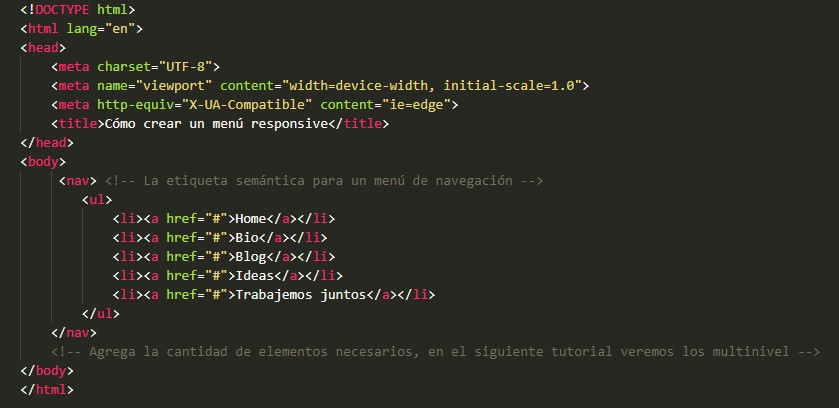
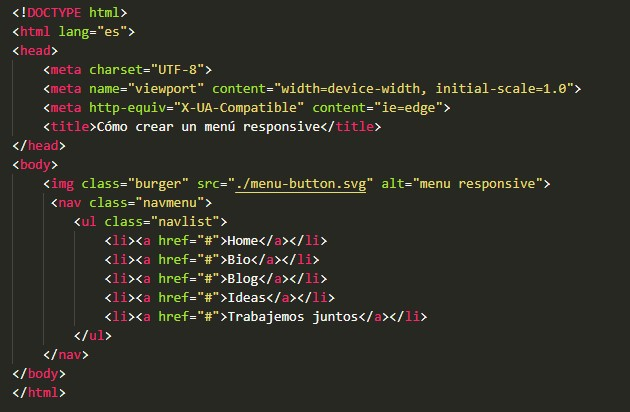
todos los archivos

Changed region(s): [[0.0, 0.0, 0.9349, 0.7941], [0.0, 0.7353, 0.9349, 0.9706]]

diff --git a/CSS.html b/CSS.html
@@ -40,36 +40,6 @@
             cursor: pointer; /*le decimos que cuando el cursor pase sobre el se muestre como vinculo*/
             z-index: 3; /*Lo subimos de nivel en el eje Z*/
         }
-        @media screen and (max-width: 768px){ /*invocamos la condicion para el cambio de aspecto */
-            .navlist{
-                margin: 0;
-                position: relative;
-                left: -100%; /*lo sacamos del canvas o lienzo*/
-                background-color: rgba(0, 0, 0, 0.4); /*un color de fondo*/
-            }
-            .active{
-                left: 0; /*esta clase "devolverá" el menú a la posición*/
-            }
-            .navlist{
-                text-align: center; /*agregamos estilos del menú en móviles*/
-                height: 100vh;
-                display: grid;
-                justify-content: center;
-                align-content: center;
-            }
-            .navlist li a{
-                width: 100%;
-                display: block;
-            }
-            .navlist li a:hover{
-                background-color: rgba(243, 52, 84, 0.2);
-                color: #FFF;
-                padding: 8px;
-            }
-            .burger{
-                display: block; /*aqui mostramos el botón, en móviles*/
-            }
-        }
     </style>
 </head>
 <body>
@@ -83,18 +53,6 @@
             <li><a href="#">Trabajemos juntos</a></li>
         </ul>
     </nav>
-    <script>
-        const botonmenu = document.querySelector('.burger')
-        const menu = document.querySelector('.navlist')
-        botonmenu.addEventListener('click', toggleMenu)
-        function toggleMenu(){
-            if (menu.classList.contains('active')) {
-                menu.classList.remove('active')
-            } else {
-                menu.classList.add('active')
-            }
-        }
-    </script>
 </body>
 </html>
 

diff --git a/html.html b/html.html
@@ -1,0 +1,23 @@
+<!DOCTYPE html>
+<html lang="es">
+<head>
+    <meta charset="UTF-8">
+    <meta name="viewport" content="width=device-width, initial-scale=1.0">
+    <meta http-equiv="X-UA-Compatible" content="ie=edge">
+    <title>Cómo crear un menú responsive</title>
+</head>
+<body>
+    <img class="burger" src="./menu-button.svg" alt="menu responsive"> <!-- botón del menú adaptable -->
+     <nav class="navmenu"><!-- Contenedor del menú --> 
+        <ul class="navlist"> <!-- Listado de opciones del menú --> 
+            <li><a href="#">Home</a></li>
+            <li><a href="#">Bio</a></li>
+            <li><a href="#">Blog</a></li>
+            <li><a href="#">Ideas</a></li>
+            <li><a href="#">Trabajemos juntos</a></li>
+        </ul>
+    </nav>
+</body>
+</html>
+
+

diff --git a/CSSresponsive.html b/CSSresponsive.html
@@ -83,18 +83,6 @@
             <li><a href="#">Trabajemos juntos</a></li>
         </ul>
     </nav>
-    <script>
-        const botonmenu = document.querySelector('.burger')
-        const menu = document.querySelector('.navlist')
-        botonmenu.addEventListener('click', toggleMenu)
-        function toggleMenu(){
-            if (menu.classList.contains('active')) {
-                menu.classList.remove('active')
-            } else {
-                menu.classList.add('active')
-            }
-        }
-    </script>
 </body>
 </html>
 

diff --git a/efectos.html b/efectos.html
@@ -56,6 +56,7 @@
                 display: grid;
                 justify-content: center;
                 align-content: center;
+                transition: .5s ease-in-out; /*Creamos una pequeña transición de entrada y de salida*/
             }
             .navlist li a{
                 width: 100%;
